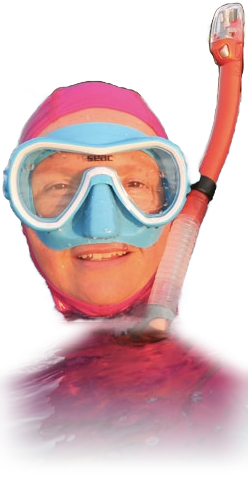
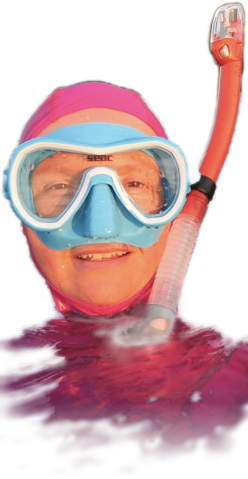
The snorkeler comes out of the water to the chest; dev mode never persists; wider, more staggered prints
- tools/snorkeler_body.py keeps every pink pixel of the photograph below the
  chin by a colour matte instead of segmenting it: the suit seen through the
  water, and its colour on the water, with the last sixth of the frame
  fading. He rides 30 cm above the drawn sea so neck and chest show, and
  the bake keeps his colours.
- Dev mode is forced off after the saved settings load and never written
  out, so a game always starts as a game.
- Prints are 0.31 m wide and fall 0.26-0.38 m either side of the line.

diff --git a/main.js b/main.js
@@ -156,10 +156,11 @@ const DIG_DUR = 0.8;
 const DEFAULT_SETTINGS = { fov: 107, sensitivity: 1, brightness: 1.16, volume: 0.5, musicVolume: 0.30, waveVolume: 0.18, sfxVolume: 0.57, walkSpeed: 1.4, invertY: false, devMode: false };
 let settings = { ...DEFAULT_SETTINGS };
 try { settings = { ...settings, ...JSON.parse(localStorage.getItem('beachwalk.settings') || '{}') }; } catch (e) {}
+settings.devMode = false;   // NEVER carried over: a game always starts as a game, whatever the last session was
 // walk speed is never remembered: every game starts at the default 1.4×, and
 // the slider is for the session you are in
 settings.walkSpeed = DEFAULT_SETTINGS.walkSpeed;
-function saveSettings() { try { localStorage.setItem('beachwalk.settings', JSON.stringify(settings)); } catch (e) {} }
+function saveSettings() { try { localStorage.setItem('beachwalk.settings', JSON.stringify({ ...settings, devMode: false })); } catch (e) {} }
 
 let audioStarted = false, audioCtx = null, masterGain = null;
 let titleSurfGain = null;               // the sea under the title, pulled down on begin
@@ -2536,7 +2537,7 @@ function makeCraterTexture() {
 }
 
 const FOOT_POOL = 96;
-const footGeo = new THREE.PlaneGeometry(0.26, 0.44); footGeo.rotateX(-Math.PI / 2);
+const footGeo = new THREE.PlaneGeometry(0.31, 0.44); footGeo.rotateX(-Math.PI / 2);   // a print is wider than it looks
 const foot = new THREE.InstancedMesh(footGeo, new THREE.MeshBasicMaterial({ map: makeFootTexture(), transparent: true, depthWrite: false, opacity: 0.88 }), FOOT_POOL);
 foot.frustumCulled = false; foot.renderOrder = 2; foot.instanceMatrix.setUsage(THREE.DynamicDrawUsage);
 scene.add(foot);
@@ -2586,8 +2587,8 @@ function stampFoot(x, z, fwdX, fwdZ, side) {
   _fe.set(0, Math.atan2(fwdX, fwdZ) + Math.PI, 0);
   _fq.setFromEuler(_fe);
   // feet fall either side of the line of travel, toes a little out, never quite the same
-  const off = (0.19 + Math.random() * 0.05) * side;
-  _fe.y += side * 0.11 + (Math.random() - 0.5) * 0.14;
+  const off = (0.26 + Math.random() * 0.06) * side;
+  _fe.y += side * 0.13 + (Math.random() - 0.5) * 0.16;
   _fq.setFromEuler(_fe);
   // negative x-scale mirrors the texture, so one foot is the other's reflection
   _fs.set((0.92 + Math.random() * 0.16) * side, 1, 1.0 + Math.random() * 0.2);
@@ -10349,8 +10350,8 @@ const camp = new THREE.Group();
       // STAGGERED, like a walk: left and right feet a shoulder's width apart
       // either side of the line, toes turned a little out, each a little
       // different — in a row they read as a stamp
-      const off = (0.22 + Math.random() * 0.06) * side;
-      e.set(0, heading + side * 0.12 + (Math.random() - 0.5) * 0.16, 0); q.setFromEuler(e);
+      const off = (0.30 + Math.random() * 0.08) * side;
+      e.set(0, heading + side * 0.14 + (Math.random() - 0.5) * 0.18, 0); q.setFromEuler(e);
       const z = CAMP_Z + 0.02 + (Math.random() - 0.5) * 0.08;
       sc.set((0.92 + Math.random() * 0.16) * side, 1, 1.0 + Math.random() * 0.2);
       m.compose(new THREE.Vector3(x + (-fwdZ) * off, 0.03, z + fwdX * off), q, sc);
@@ -10396,8 +10397,8 @@ const SNORK_X = -8.5, SNORK_Z = CAMP_Z - 5;  // eleven metres off the waterline,
 const SNORK_H = 0.95;                 // tube tip to waterline; over life-size, like every cut-out read at range
 const SNORK_PEEK = 0.23;              // the tube and nothing else: 9 cm was a pixel at twenty metres
 const SNORK_EYES = { x: 0.22, y: 0.388, w: 0.56, h: 0.029 };  // both lenses of the mask, measured off the cut-out
-const SNORK_WL = 0.71;                // the photo's own waterline, as a fraction of the cut-out's height
-const SNORK_SINK = -0.08;             // the photo's waterline rides a hand ABOVE the drawn sea, so the wet shoulders show and the fade meets the water
+const SNORK_WL = 0.69;                // the photo's own waterline, as a fraction of the cut-out's height
+const SNORK_SINK = -0.30;             // the photo's waterline rides well ABOVE the drawn sea: neck and chest out of the water, the fade at the bottom meeting it
 /* HE IS NOT A FLOATING HEAD. The person segmentation ends at his neck, and
  * a neck ending in a line at the surface is a head on a plate. So the
  * cut-out is rebuilt from the PHOTOGRAPH ITSELF (tools/snorkeler_body.py):
@@ -10430,7 +10431,8 @@ function snorkSetFrames(img) {
   // SNORK_H is tip to waterline; the picture runs on below that into the water
   const T = SNORK_H / SNORK_WL;
   snorkSprite.scale.set(T * img.width / img.height, T, 1);
-  const f = bakeCutout(img, SNORK_EYES, { pix: 620, levels: 9, grain: 8, sat: 0.72 });
+  // his own colours: the pink and the cyan are the point of him, so no desaturation and a finer posterise
+  const f = bakeCutout(img, SNORK_EYES, { pix: 620, levels: 12, grain: 6, sat: 1.0 });
   snorkOpenTex = f.open; snorkShutTex = f.shut;
   snorkMat.map = snorkOpenTex; snorkMat.needsUpdate = true;
   snorkSprite.visible = true;

diff --git a/tools/snorkeler_body.py b/tools/snorkeler_body.py
@@ -1,37 +1,50 @@
-"""Rebuild assets/snorkeler.png from the photo with the body under the water kept.
+"""Build assets/snorkeler.png from the photo, keeping his body under the water.
 
-The person segmentation (tools/cutout.swift) ends at the neck, and a neck
-ending in a line at the surface is a head on a plate. This keeps the
-segmentation's alpha for the head and, below the neck, the photograph's own
-pixels -- the suit seen through the water -- under a soft shoulder-shaped
-mask that fades to nothing toward the bottom, blurred through the join.
+The person segmentation (tools/cutout.swift) is only used for what it is good
+at -- taking the hills and sky off from around the head, mask and tube. From
+the chin down NOTHING is segmented: every pink pixel in the picture (the suit,
+seen through the water, and its colour on the water) is kept by a soft colour
+matte, so the neck and chest come out of the sea the way they do in the photo,
+and the bottom of the frame fades so the picture never ends on a line.
 
-    swift tools/cutout.swift assets/snorkeler.jpg assets/snorkeler.png 900
-    python3 tools/snorkeler_body.py
+    swift tools/cutout.swift assets/snorkeler.jpg /tmp/snorkeler-head.png 900
+    python3 tools/snorkeler_body.py [/tmp/snorkeler-head.png]
 
-X0/Y0 is where the cut-out sits in the photo (found by matching)."""
+X0/Y0 is where that head cut-out sits in the photo (found by matching)."""
+import sys, colorsys
 from PIL import Image, ImageFilter
 import numpy as np
+head_path = sys.argv[1] if len(sys.argv) > 1 else 'assets/snorkeler-head.png'
 src = Image.open('assets/snorkeler.jpg').convert('RGB')
-cut = Image.open('assets/snorkeler.png').convert('RGBA')
+head = Image.open(head_path).convert('RGBA')
 X0, Y0 = 59, 50
-W, H = cut.size; sw, sh = src.size
+W, H = head.size; sw, sh = src.size
 OUT_H = min(479, sh - Y0)
-rgb = np.array(src.crop((X0, Y0, X0 + W, Y0 + OUT_H))).astype(np.float32)
-alpha = np.zeros((OUT_H, W), np.float32)
-alpha[:H, :] = np.array(cut)[:, :, 3].astype(np.float32) / 255.0
-neck_row = H - 14
-cx = W * 0.52
+region = src.crop((X0, Y0, X0 + W, Y0 + OUT_H))
+rgb = np.array(region).astype(np.float32)
+# --- the head, by segmentation (hills and sky have to come off somehow)
+head_a = np.zeros((OUT_H, W), np.float32)
+head_a[:H, :] = np.array(head)[:, :, 3].astype(np.float32) / 255.0
+# --- everything pink, by colour
+r, g, b = rgb[:, :, 0] / 255, rgb[:, :, 1] / 255, rgb[:, :, 2] / 255
+mx = np.maximum(np.maximum(r, g), b); mn = np.minimum(np.minimum(r, g), b)
+sat = np.where(mx > 0, (mx - mn) / np.maximum(mx, 1e-6), 0)
+# pink / magenta: red well above green, blue not far below red
+pinkness = np.clip((r - g - 0.10) / 0.22, 0, 1) * np.clip((b - g + 0.02) / 0.16, 0, 1) * np.clip((sat - 0.18) / 0.22, 0, 1) * np.clip((mx - 0.18) / 0.2, 0, 1)
 yy, xx = np.mgrid[0:OUT_H, 0:W]
-t = np.clip((yy - neck_row) / (OUT_H - neck_row), 0, 1)
-half = W * 0.18 + (W * 0.50 - W * 0.18) * np.clip(t * 3.2, 0, 1)
-lat = np.clip(1 - ((np.abs(xx - cx) - half * 0.72) / (half * 0.34)), 0, 1)
-vert = np.clip(1 - (t - 0.30) / 0.62, 0, 1)
-body = (yy >= neck_row - 6) * lat * vert
-body = np.array(Image.fromarray((body * 255).astype(np.uint8)).filter(ImageFilter.GaussianBlur(5))).astype(np.float32) / 255.0
-alpha = np.maximum(alpha, body)
-band = (yy > neck_row - 12) & (yy < neck_row + 22)
-a_blur = np.array(Image.fromarray((alpha * 255).astype(np.uint8)).filter(ImageFilter.GaussianBlur(3))).astype(np.float32) / 255.0
-alpha = np.where(band, np.maximum(alpha, a_blur), alpha)
+rows = np.where((head_a > 0.5).sum(1) > 0)[0]
+chin = int(rows.max()) - 26                      # just above where the segmentation ends at the neck
+cx = W * 0.52
+window = np.clip(1 - (np.abs(xx - cx) - W * 0.46) / (W * 0.12), 0, 1)   # nearly the full width, soft at the sides
+below = np.clip((yy - (chin - 24)) / 30, 0, 1)   # the matte takes over under the chin
+body_a = pinkness * window * below
+body_a = np.array(Image.fromarray((body_a * 255).astype(np.uint8)).filter(ImageFilter.GaussianBlur(2.2))).astype(np.float32) / 255.0
+body_a = np.clip(body_a * 1.6, 0, 1)             # the blur thinned it; fill the suit back in
+# --- join and fade
+alpha = np.maximum(head_a * (1 - below) + head_a * below, body_a)
+alpha = np.maximum(alpha, head_a * (yy < chin + 6))
+fade = np.clip((OUT_H - 1 - yy) / (OUT_H * 0.16), 0, 1)     # the last sixth fades to nothing
+alpha = alpha * fade
+alpha = np.array(Image.fromarray((alpha * 255).astype(np.uint8)).filter(ImageFilter.GaussianBlur(1.0))).astype(np.float32) / 255.0
 Image.fromarray(np.dstack([rgb, alpha * 255]).astype(np.uint8), 'RGBA').save('assets/snorkeler.png')
-print('wrote assets/snorkeler.png', (W, OUT_H))
+print('wrote assets/snorkeler.png', (W, OUT_H), 'chin row', chin)

diff --git a/CLAUDE.md b/CLAUDE.md
@@ -855,7 +855,9 @@ black `#intro` card: the line fades in, holds, fades out, world fades up,
 harness exposes `settings` through a getter: the reset REASSIGNS the module
 variable, so a captured reference goes stale.
 
-`settings.devMode` — the last toggle in the settings menu, "Dev mode — no
+`settings.devMode` is NEVER persisted: it is forced off after the saved
+settings load and written out as false, so a game always starts as a game
+whatever the last session was doing. It is the last toggle in the settings menu, "Dev mode — no
 deaths, no cutscenes", persisted with the rest of `beachwalk.settings`. Two
 effects, both at the one door each thing goes through: `damagePlayer()` still
 lands the hit (flash, knock, sound) but clamps `hp` to 1, and `playerDied()`
@@ -1316,11 +1318,15 @@ between. At x = -11 with the whole tube up he is a fleck, which is the brief,
 and `snorkGlint` — a faint warm point on the tube's valve, only while he is
 down — is the one thing out there that is not a star. **He is not a floating
 head.** The person segmentation ends at his neck, and a painted-on suit
-(tried first) still read as a head on a plate. `tools/snorkeler_body.py`
-rebuilds the cut-out from the PHOTOGRAPH ITSELF: the head keeps the
-segmentation's alpha and below the neck the picture's own pixels — the suit
-seen through the water — are kept under a soft shoulder-shaped mask that
-fades to nothing toward the bottom, blurred through the join. `SNORK_WL` is
+(tried first) still read as a head on a plate; so did a shoulder-shaped
+mask over the photo. `tools/snorkeler_body.py` uses the segmentation for
+the one thing it is good at — taking the hills and sky off around the head,
+mask and tube — and from the chin down segments NOTHING: every pink pixel
+in the picture (the suit seen through the water, and its colour on the
+water) is kept by a soft colour matte, so the neck and chest come out of
+the sea as they do in the photograph, and the last sixth of the frame fades
+so the picture never ends on a line. The bake keeps his colours (`sat`
+1.0, twelve levels): the pink and the cyan are the point of him. `SNORK_WL` is
 the photo's waterline as a fraction of the cut-out; he rises until that line
 sits `SNORK_SINK` relative to the drawn sea (negative: a hand above it, so
 the wet shoulders show and the fade meets the water). The sprite is placed
@@ -1348,10 +1354,11 @@ pinned at your chest and the throw began behind glass. Only the cliff is a
 wall now, either way, and `throwHeld()` gives 16 m/s with more lift (was
 12), about fifteen metres out: past the snorkeler, not past the horizon.
 
-**Prints are STAGGERED.** Left and right feet fall a shoulder's width
-either side of the line of travel (0.19–0.28 m, not 0.14), toes turned a
-little out, each with its own small yaw — in a straight row they read as a
-stamp. Both `stampFoot()` and the campsite trail do this.
+**Prints are STAGGERED, and WIDE.** Left and right feet fall a shoulder's
+width either side of the line of travel (0.26–0.38 m, not 0.14), toes
+turned a little out, each with its own small yaw — in a straight row they
+read as a stamp. Both `stampFoot()` and the campsite trail do this. The
+print quad is 0.31 m across: a foot is wider than it looks.
 
 **A footprint is ONE depression with a shadow INSIDE it.** Built off a
 photograph of a bare print in wet sand: the whole sole is a single shallow
